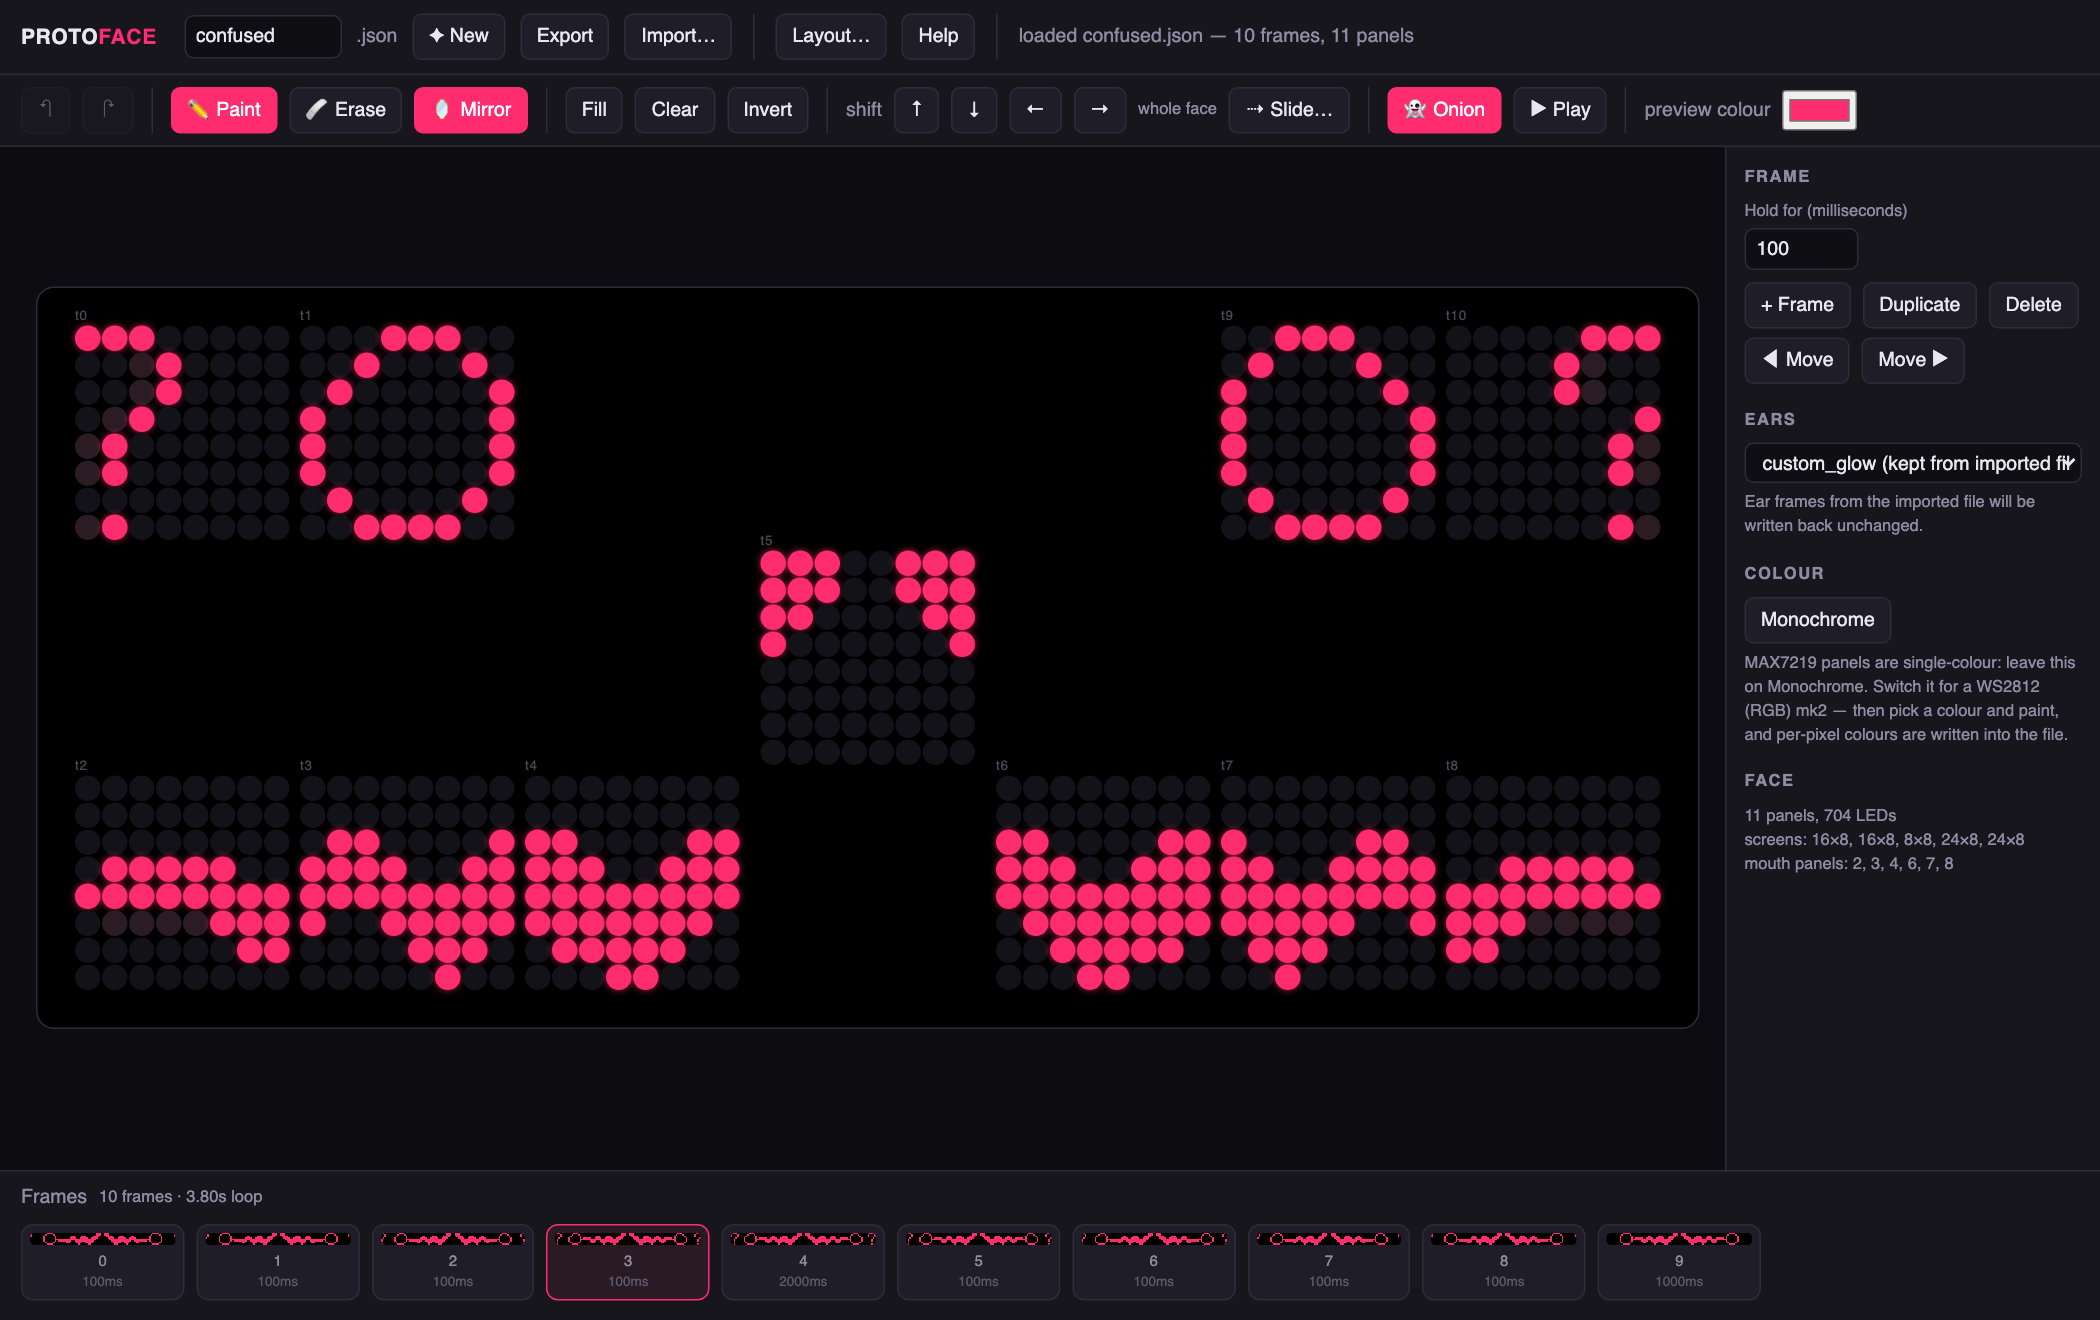
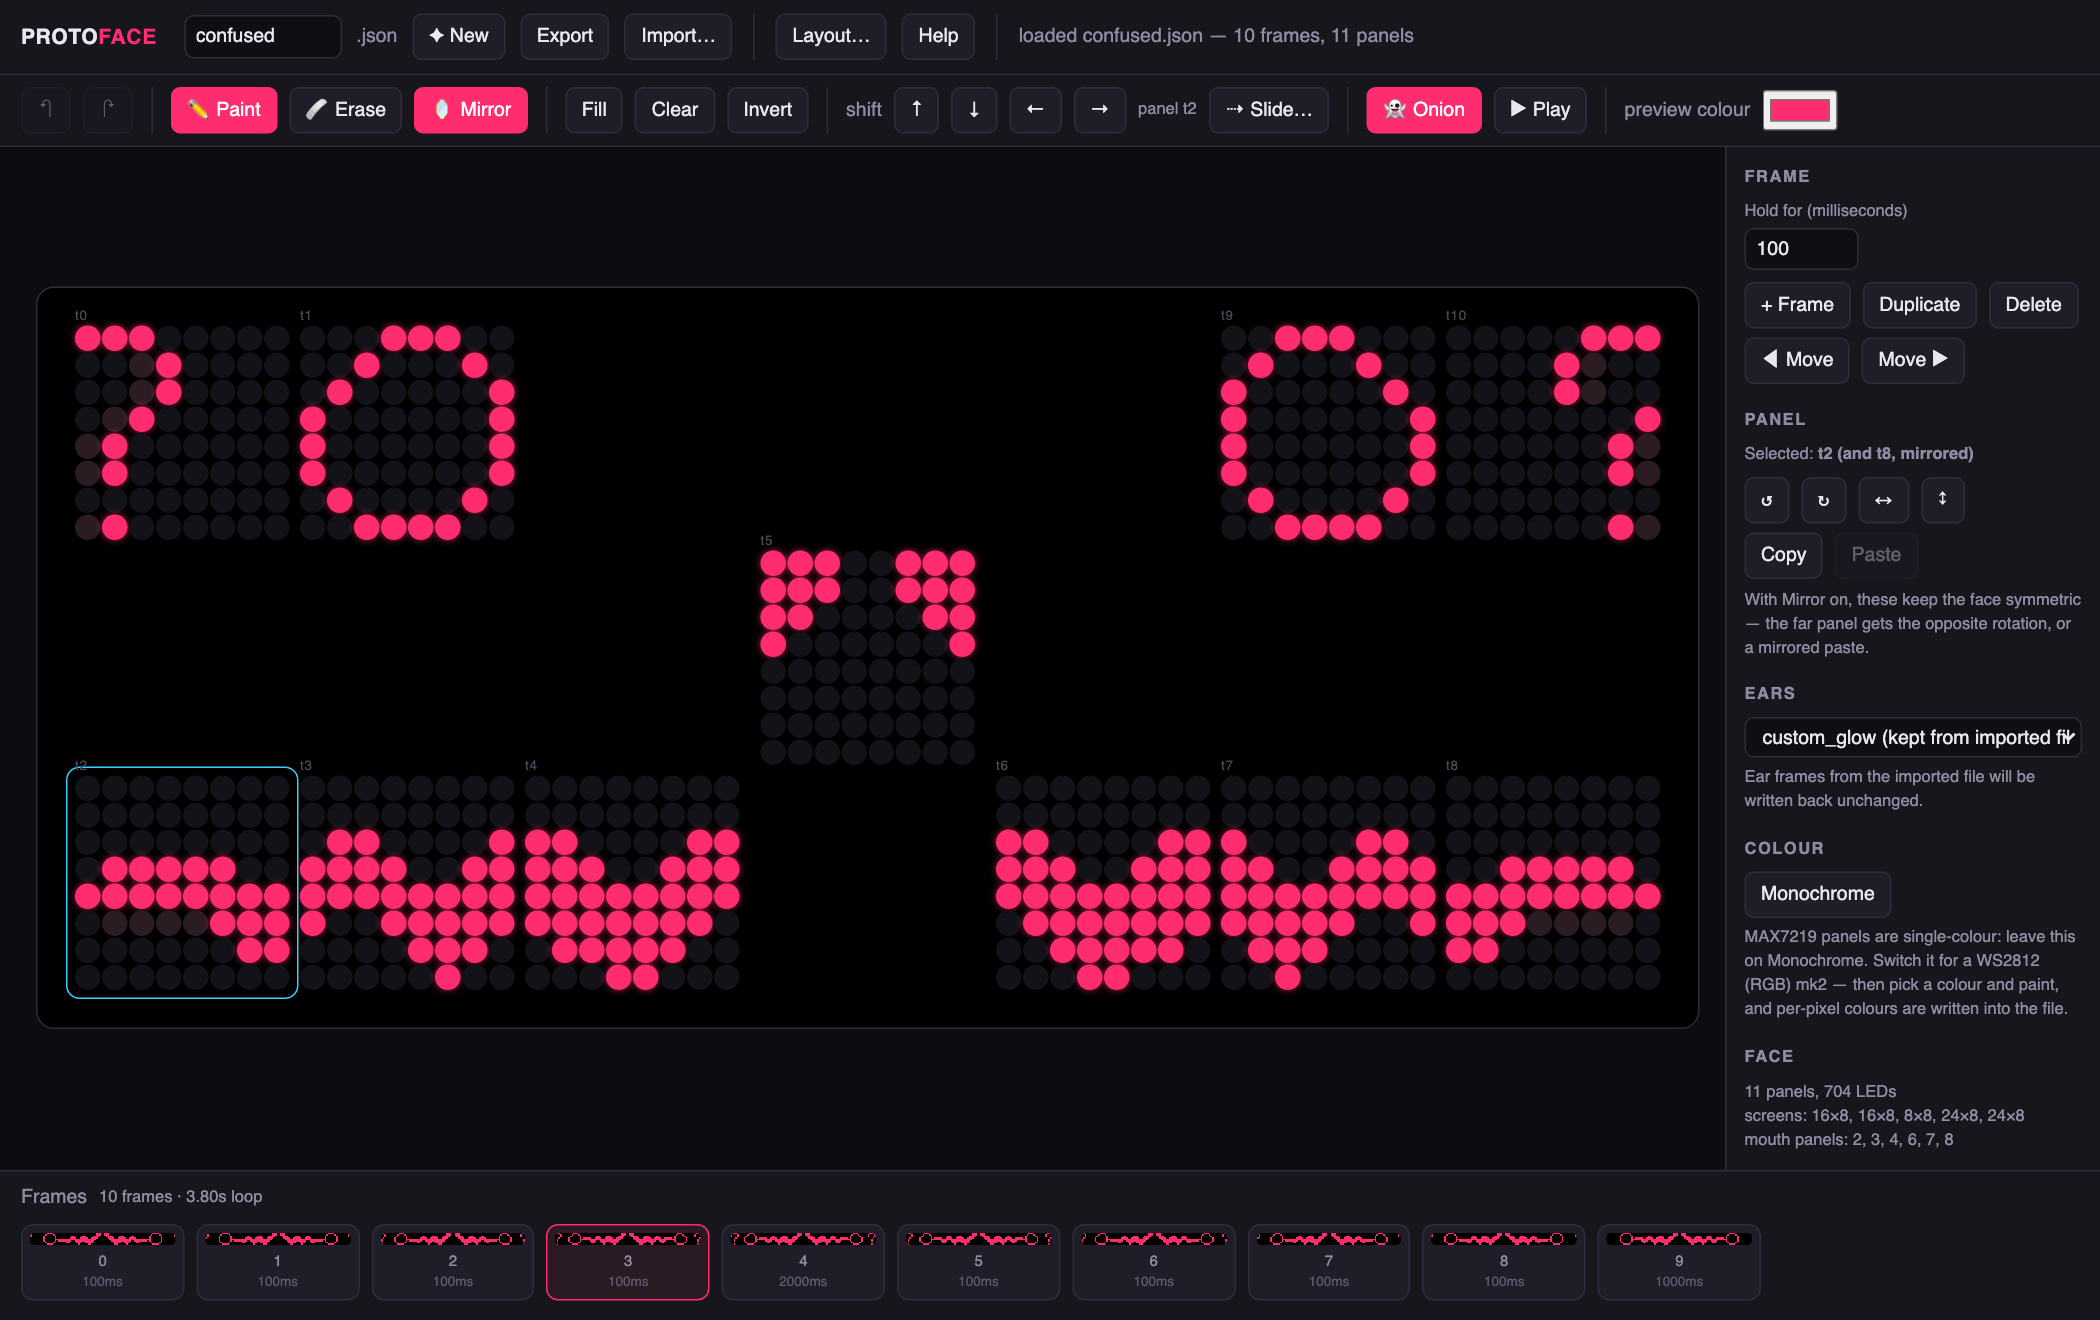
Panel operations: rotate, flip, copy/paste, row/column toggle
Closes the remaining gap with ProtoESP's animator apart from ear editing.

All of it is mirror-aware, which is the reason to have it here rather than
switching tools: the mirror of a clockwise rotation is a counter-clockwise
one, and a paste lands left-right flipped on the far side, so a symmetric
face survives the operation instead of needing repair afterwards. Flips are
their own twin. The centre panel is its own mirror, so it is transformed
once, not twice.

Row toggle spans the whole band rather than a single panel, matching how
shift and Slide already treat a mouth as one 24-wide screen; one keypress
draws a line right across it. Column is panel-scoped, since a column is
eight pixels tall either way.

Keys: [ ] rotate, Cmd+C / Cmd+V copy and paste, R row, C column.

123 tests.

diff --git a/protoface.html b/protoface.html
@@ -182,6 +182,29 @@
       <button id="fRight">Move ▶</button>
     </div>
 
+    <h2>Panel</h2>
+    <div class="hint" id="panelNone">
+      Click a panel's small <b>t</b> label to select it. Fill, Clear, Invert, shift and
+      Slide then affect only that panel.
+    </div>
+    <div id="panelBox" style="display:none">
+      <div class="hint" style="margin-bottom:7px">Selected: <b id="panelWhich"></b></div>
+      <div class="row">
+        <button id="pRotCCW" title="Rotate counter-clockwise">↺</button>
+        <button id="pRotCW"  title="Rotate clockwise">↻</button>
+        <button id="pFlipH"  title="Flip left-to-right">↔</button>
+        <button id="pFlipV"  title="Flip top-to-bottom">↕</button>
+      </div>
+      <div class="row" style="margin-top:6px">
+        <button id="pCopy" title="Copy this panel (⌘C)">Copy</button>
+        <button id="pPaste" title="Paste into this panel (⌘V)" disabled>Paste</button>
+      </div>
+      <div class="hint" style="margin-top:6px">
+        With Mirror on, these keep the face symmetric — the far panel gets the
+        opposite rotation, or a mirrored paste.
+      </div>
+    </div>
+
     <h2>Ears</h2>
     <select id="earType">
       <option value="rainbow">rainbow</option>
@@ -308,6 +331,11 @@
       <kbd>Space</kbd> play/pause &nbsp; <kbd>←</kbd> <kbd>→</kbd> prev/next frame &nbsp;
       <kbd>D</kbd> duplicate frame &nbsp; <kbd>E</kbd> eraser &nbsp; <kbd>M</kbd> mirror &nbsp;
       <kbd>O</kbd> onion &nbsp; <kbd>Backspace</kbd> delete frame
+    </p>
+    <p>
+      With the cursor over a pixel: <kbd>R</kbd> toggles that row right across its screen,
+      <kbd>C</kbd> toggles that column. With a panel selected: <kbd>[</kbd> <kbd>]</kbd> rotate,
+      <kbd>⌘C</kbd> <kbd>⌘V</kbd> copy and paste it.
     </p>
     <h3 style="margin-top:16px">Credit</h3>
     <p>
@@ -525,7 +553,7 @@ function buildStage(){
 }
 
 /* ── painting ───────────────────────────────────────────────────────── */
-let painting = false, paintVal = 1;
+let painting = false, paintVal = 1, lastPx = null;
 document.addEventListener("mouseup", () => painting = false);
 document.addEventListener("mouseleave", () => painting = false);
 
@@ -547,9 +575,10 @@ stage.addEventListener("mousedown", e => {
   }
 });
 stage.addEventListener("mouseover", e => {
-  if (!painting) return;
   const d = e.target.closest(".px");
-  if (d) paint(+d.dataset.seg, +d.dataset.idx, paintVal);
+  if (!d) return;
+  lastPx = { seg: +d.dataset.seg, idx: +d.dataset.idx };   // for the R / C keys
+  if (painting) paint(lastPx.seg, lastPx.idx, paintVal);
 });
 stage.addEventListener("contextmenu", e => { if (e.target.closest(".px")) e.preventDefault(); });
 
@@ -756,10 +785,108 @@ function slide(dx, dy, count, wrap){
   return made.length;
 }
 
+/* ── single-panel operations ────────────────────────────────────────────
+   Each op has a mirror twin such that a symmetric face stays symmetric:
+   the mirror of a clockwise rotation is a counter-clockwise one, and a flip
+   is its own twin. (Proof for rotation: mirror is p[r][c] = m[r][7-c];
+   rotCW gives p'[r][c] = p[7-c][r], and rotCCW on m gives
+   m'[r][7-c] = m[7-c][7-r] = p[7-c][r]. Same thing.)                      */
+const OPS = {
+  rotCW:  { map: (r, c) => [7 - c, r],     twin: "rotCCW", label: "rotated ↻" },
+  rotCCW: { map: (r, c) => [c, 7 - r],     twin: "rotCW",  label: "rotated ↺" },
+  flipH:  { map: (r, c) => [r, 7 - c],     twin: "flipH",  label: "flipped ↔" },
+  flipV:  { map: (r, c) => [7 - r, c],     twin: "flipV",  label: "flipped ↕" }
+};
+
+function remapPanel(f, seg, map){
+  const L = f.leds[seg], P = f.pp[seg];
+  const nl = new Uint8Array(64), np = new Array(64).fill("");
+  for (let r = 0; r < 8; r++) for (let c = 0; c < 8; c++) {
+    const [sr, sc] = map(r, c);
+    nl[r*8 + c] = L[sr*8 + sc];
+    np[r*8 + c] = P[sr*8 + sc];
+  }
+  f.leds[seg] = nl; f.pp[seg] = np;
+}
+
+function panelOp(op){
+  if (S.selSeg < 0) return false;
+  edit();
+  const f = F(), p = S.selSeg, m = S.nSeg - 1 - p;
+  remapPanel(f, p, OPS[op].map);
+  if (S.mirror && m !== p) remapPanel(f, m, OPS[OPS[op].twin].map);
+  render(); touch();
+  document.getElementById("status").textContent =
+    "t" + p + " " + OPS[op].label + (S.mirror && m !== p ? " (and t" + m + ")" : "");
+  return true;
+}
+
+let clip = null;
+function copyPanel(){
+  if (S.selSeg < 0) return false;
+  const f = F();
+  clip = { leds: Uint8Array.from(f.leds[S.selSeg]), pp: f.pp[S.selSeg].slice() };
+  document.getElementById("status").textContent = "copied t" + S.selSeg;
+  syncPanelBox();
+  return true;
+}
+function pastePanel(){
+  if (S.selSeg < 0 || !clip) return false;
+  edit();
+  const f = F(), p = S.selSeg, m = S.nSeg - 1 - p;
+  f.leds[p] = Uint8Array.from(clip.leds);
+  f.pp[p] = clip.pp.slice();
+  if (S.mirror && m !== p) {                       // the far side gets it mirrored
+    const nl = new Uint8Array(64), np = new Array(64).fill("");
+    for (let r = 0; r < 8; r++) for (let c = 0; c < 8; c++) {
+      nl[r*8 + c] = clip.leds[r*8 + (7 - c)];
+      np[r*8 + c] = clip.pp  [r*8 + (7 - c)];
+    }
+    f.leds[m] = nl; f.pp[m] = np;
+  }
+  render(); touch();
+  document.getElementById("status").textContent =
+    "pasted into t" + p + (S.mirror && m !== p ? " and t" + m : "");
+  return true;
+}
+
+// Toggle the whole row or column under the cursor. A row runs the full width of
+// its band, so one keypress draws a line right across a 24-pixel mouth.
+function toggleLine(kind){
+  if (!lastPx) return false;
+  const { seg, idx } = lastPx, r = idx >> 3, c = idx & 7;
+  const cells = new Set();
+  const add = (s, i) => {
+    cells.add(s + ":" + i);
+    if (S.mirror) cells.add((S.nSeg - 1 - s) + ":" + ((i >> 3)*8 + (7 - (i & 7))));
+  };
+  if (kind === "col") for (let rr = 0; rr < 8; rr++) add(seg, rr*8 + c);
+  else (bands().find(b => b.includes(seg)) || [seg])
+        .forEach(s => { for (let cc = 0; cc < 8; cc++) add(s, r*8 + cc); });
+
+  const list = [...cells].map(k => k.split(":").map(Number));
+  edit();
+  const f = F();
+  const allOn = list.every(([s, i]) => f.leds[s][i]);
+  list.forEach(([s, i]) => { f.leds[s][i] = allOn ? 0 : 1; if (allOn) f.pp[s][i] = ""; });
+  render(); touch();
+  return true;
+}
+
 function selectSeg(i){
   S.selSeg = (S.selSeg === i) ? -1 : i;
   document.querySelectorAll(".seg").forEach(el => el.classList.toggle("sel", +el.dataset.seg === S.selSeg));
   document.getElementById("shiftScope").textContent = S.selSeg >= 0 ? ("panel t" + S.selSeg) : "whole face";
+  syncPanelBox();
+}
+function syncPanelBox(){
+  const on = S.selSeg >= 0;
+  document.getElementById("panelNone").style.display = on ? "none" : "";
+  document.getElementById("panelBox").style.display  = on ? "" : "none";
+  if (on) document.getElementById("panelWhich").textContent =
+    "t" + S.selSeg + (S.mirror && S.nSeg - 1 - S.selSeg !== S.selSeg
+      ? " (and t" + (S.nSeg - 1 - S.selSeg) + ", mirrored)" : "");
+  document.getElementById("pPaste").disabled = !on || !clip;
 }
 
 /* ── frames ─────────────────────────────────────────────────────────── */
@@ -859,7 +986,9 @@ function setTool(t){
   tPaint.classList.toggle("on", t === "paint");
   tErase.classList.toggle("on", t === "erase");
 }
-document.getElementById("tMirror").onclick = e => { S.mirror = !S.mirror; e.currentTarget.classList.toggle("on", S.mirror); };
+document.getElementById("tMirror").onclick = e => {
+  S.mirror = !S.mirror; e.currentTarget.classList.toggle("on", S.mirror); syncPanelBox();
+};
 document.getElementById("bOnion").onclick  = e => { S.onion  = !S.onion;  e.currentTarget.classList.toggle("on", S.onion); render(); };
 document.getElementById("ledColor").oninput = render;
 document.getElementById("bRGB").onclick = e => {
@@ -884,6 +1013,12 @@ document.getElementById("earType").onchange = e => {
 
 document.getElementById("bUndo").onclick = undo;
 document.getElementById("bRedo").onclick = redo;
+document.getElementById("pRotCW").onclick  = () => panelOp("rotCW");
+document.getElementById("pRotCCW").onclick = () => panelOp("rotCCW");
+document.getElementById("pFlipH").onclick  = () => panelOp("flipH");
+document.getElementById("pFlipV").onclick  = () => panelOp("flipV");
+document.getElementById("pCopy").onclick   = copyPanel;
+document.getElementById("pPaste").onclick  = pastePanel;
 
 document.addEventListener("keydown", e => {
   const k = e.key.toLowerCase();
@@ -891,6 +1026,13 @@ document.addEventListener("keydown", e => {
     e.preventDefault(); e.shiftKey ? redo() : undo(); return;
   }
   if (/^(INPUT|TEXTAREA|SELECT)$/.test(e.target.tagName)) return;
+  if ((e.metaKey || e.ctrlKey) && k === "c") { if (copyPanel())  e.preventDefault(); return; }
+  if ((e.metaKey || e.ctrlKey) && k === "v") { if (pastePanel()) e.preventDefault(); return; }
+  if (e.metaKey || e.ctrlKey) return;           // leave every other ⌘-combo alone
+  if (k === "r") { if (toggleLine("row")) e.preventDefault(); return; }
+  if (k === "c") { if (toggleLine("col")) e.preventDefault(); return; }
+  if (k === "[") { panelOp("rotCCW"); return; }
+  if (k === "]") { panelOp("rotCW");  return; }
   if (e.key === " ")          { e.preventDefault(); play(); }
   else if (e.key === "ArrowLeft"  && S.frames.length) { S.cur = (S.cur - 1 + S.frames.length) % S.frames.length; render(); }
   else if (e.key === "ArrowRight" && S.frames.length) { S.cur = (S.cur + 1) % S.frames.length; render(); }
@@ -1045,7 +1187,7 @@ function applyLayout(visType, isMouth){
   const changed = p.nSeg !== S.nSeg || p.nBlush !== S.nBlush;
   S.visType = visType; S.grid = p.grid; S.nSeg = p.nSeg; S.nBlush = p.nBlush;
   S.isMouth = isMouth.map(Boolean);
-  S.selSeg = -1;
+  S.selSeg = -1; lastPx = null; syncPanelBox();
   // a panel-count change makes older undo steps the wrong shape to restore
   if (changed) { S.frames = [blankFrame()]; S.cur = 0; clearHistory(); }
   else if (!S.frames.length) { S.frames = [blankFrame()]; S.cur = 0; }

diff --git a/README.md b/README.md
@@ -29,9 +29,9 @@ painful once you're making things that *move* rather than single faces:
 | Frame timeline               | thumbnails, drag to reorder | numbered list |
 | Motion tween (Slide)         | yes       | no |
 | Playback                     | at real per-frame timings | yes |
-| Rotate / flip a panel        | no        | yes |
-| Toggle a whole row or column | no        | yes |
-| Copy-paste between panels    | no        | yes |
+| Rotate / flip a panel        | yes, mirror-aware | yes |
+| Toggle a whole row or column | yes, row spans the screen | yes, per panel |
+| Copy-paste between panels    | yes, mirror-aware | yes |
 | **Ear animations**           | no — passed through untouched | yes, full editor |
 | Runs on the helmet over WiFi | no        | **yes** |
 
@@ -79,6 +79,24 @@ Two behaviours that stay out of your way:
 
 Keys: `⌘Z` undo · `⇧⌘Z` redo · `Space` play · `←` `→` frames · `D` duplicate ·
 `E` eraser · `M` mirror · `O` onion · `Backspace` delete frame.
+
+## Working on one panel
+
+Click a panel's small `t` label to select it. Fill, Clear, Invert, the shift
+arrows and Slide then affect only that panel, and a **Panel** box appears with
+rotate, flip, copy and paste.
+
+These stay mirror-aware, which is the point of them: with Mirror on, rotating a
+panel clockwise rotates its opposite counter-clockwise, and pasting into one
+panel pastes a left-right flipped copy into the other. A symmetric face stays
+symmetric. Turn Mirror off to work on one side alone.
+
+With the cursor over a pixel, `R` toggles that whole row and `C` that whole
+column. A row runs the full width of its screen — one keypress draws a line
+right across a 24-pixel mouth. If the line is already full it clears instead.
+
+Keys: `[` `]` rotate · `⌘C` `⌘V` copy and paste the selected panel · `R` row ·
+`C` column.
 
 ## Slide
 
